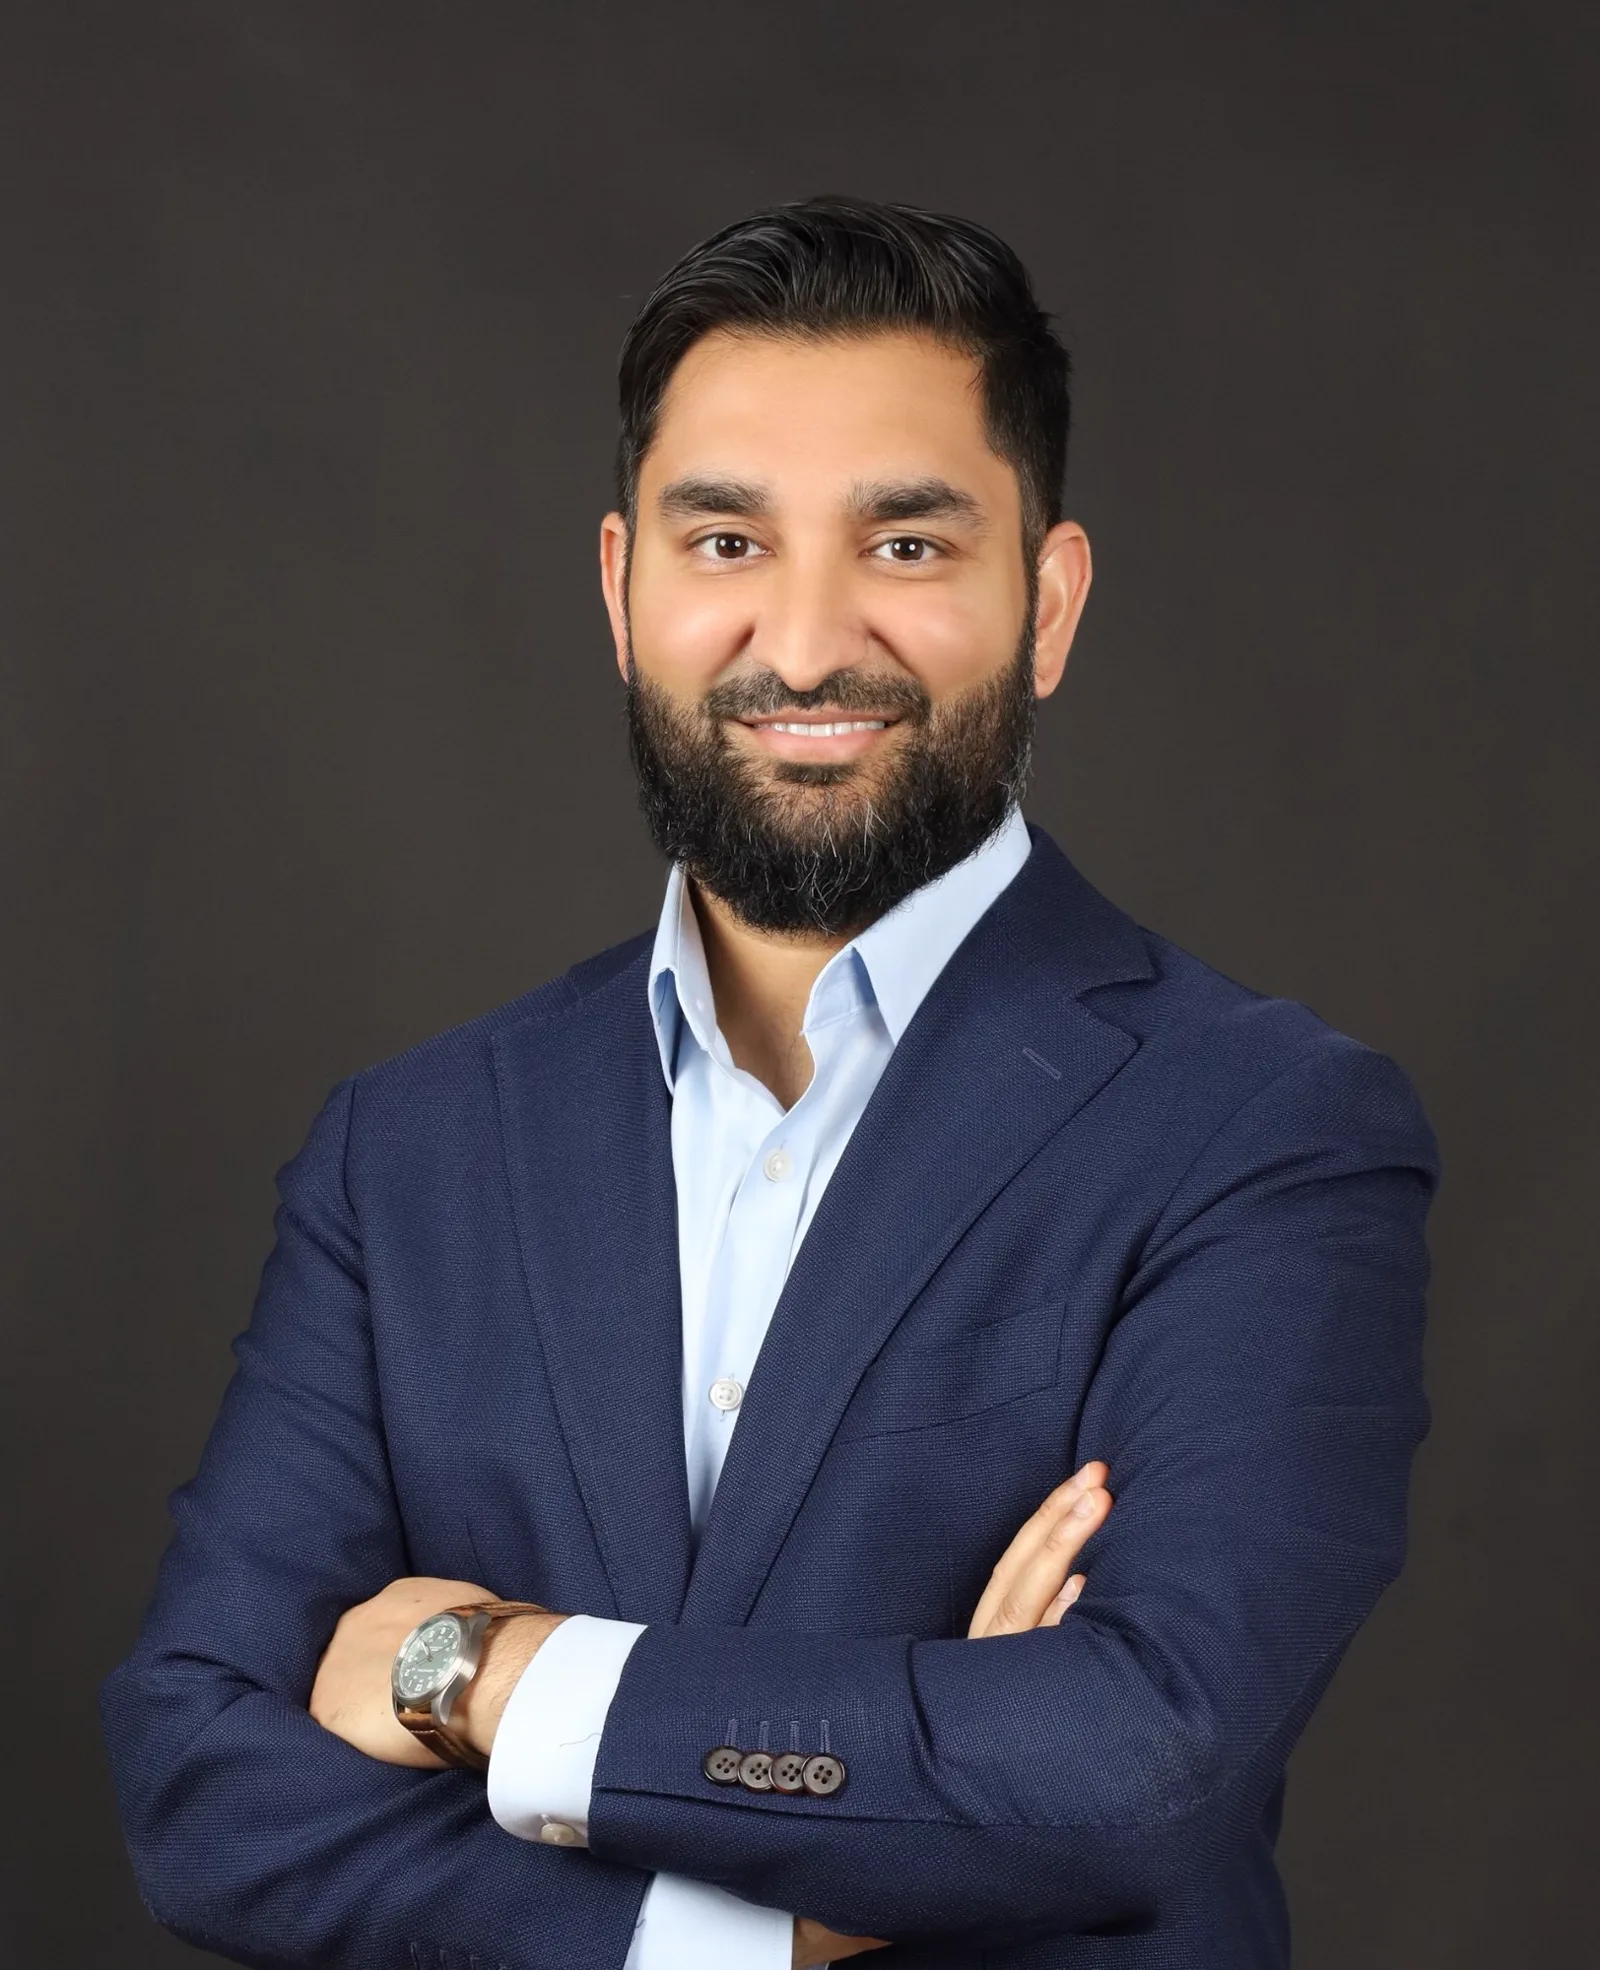
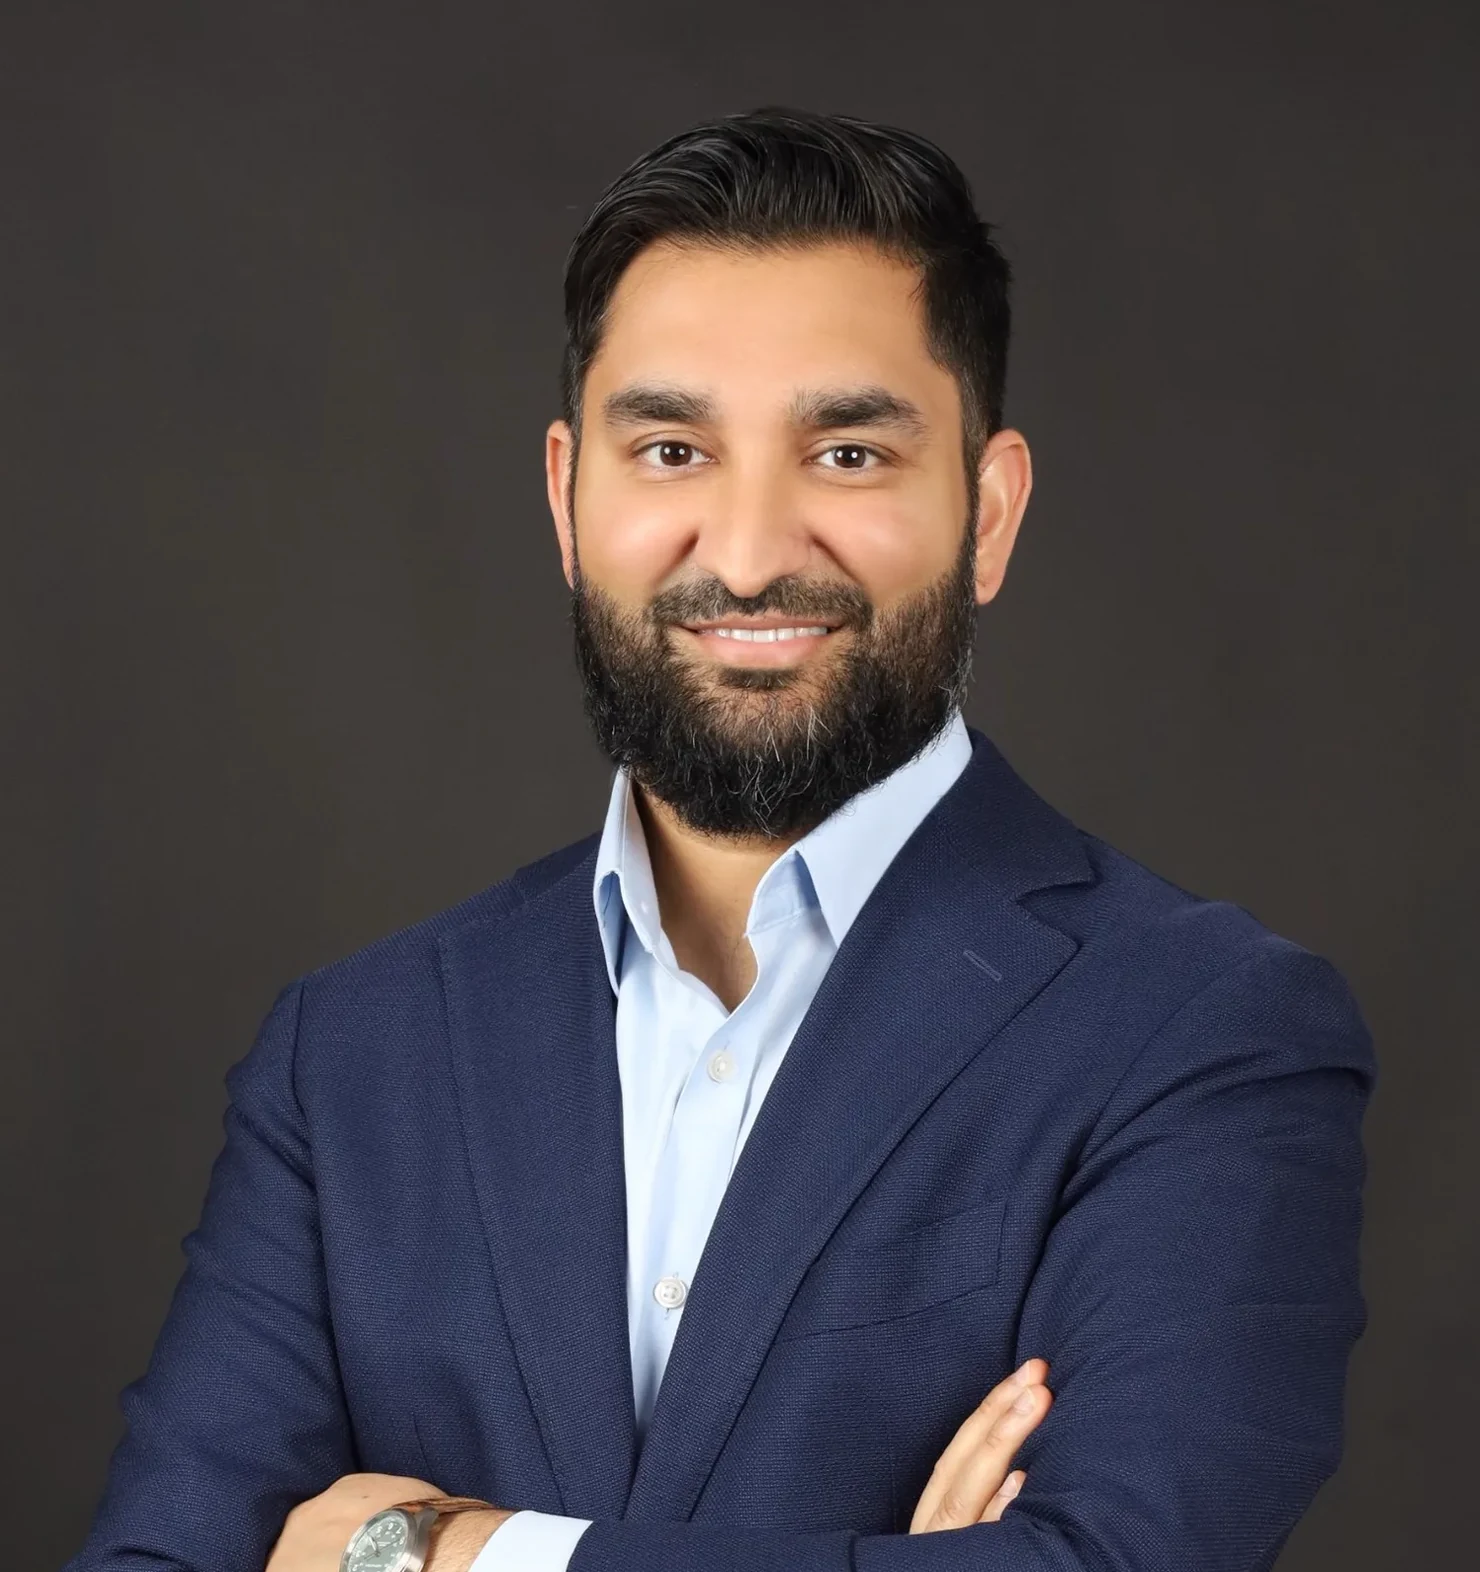
Replace marquee with a static credentials strip; fix hero opacity and framing
The scrolling ticker becomes a static list. Because it no longer moves it is
real content rather than decoration, so aria-hidden comes off and the
credentials reach screen readers and search engines for the first time. This
closes the "facts only live in the marquee" gap without restoring the stats
block. MIT now carries its date (2019) and "35+ Countries Explored" is added.
Dot separators were dropped: on a wrapping list they stranded themselves at
the start of each new line. Alternating colour and a wide column gap do that
work instead. .ticker-* CSS and @keyframes marquee are deleted.

Hero opacity was inconsistent. The fadeIn animation used `forwards` and ended
at a hard opacity: 1, permanently overriding both the 0.75 base and the
dark-mode 0.85 -- so those values only ever applied to prefers-reduced-motion
users, who saw a visibly different hero from everyone else. Opacity is now a
--hero-opacity token and the animation resolves to it. Verified across all
four theme x reduced-motion combinations, including that it re-resolves when
the theme is toggled at runtime.

The two hero photos were 1600x1700 and 1600x1970 with different subject
scales, so the crop jumped whenever the theme was switched. Both are now
1480x1572 with the subject at matching scale and position, found by
background-differencing each image and cropping to align. Neither was
upscaled; the originals stay in git history.

On phones the photo now leads, is taller, clears the fixed nav instead of
[…]

Changed region(s): [[0.0311, 0.0623, 0.9014, 1.0], [0.8703, 0.6546, 0.9324, 0.7169], [0.8081, 0.7169, 0.8392, 0.7481]]

diff --git a/index.html b/index.html
@@ -49,7 +49,7 @@
   html { visibility: visible !important; }
   .reveal { opacity: 1 !important; transform: none !important; }
   .eyebrow, .hero-name, .hero-positioning, .hero-bio { opacity: 1 !important; animation: none !important; }
-  .hero-photo { opacity: 0.75 !important; animation: none !important; }
+  .hero-photo { opacity: var(--hero-opacity) !important; animation: none !important; }
 </style></noscript>
 <style>
   *, *::before, *::after { margin: 0; padding: 0; box-sizing: border-box; }
@@ -66,6 +66,7 @@
     --line-teal: rgba(23,119,93,0.2);
     --nav-bg: rgba(255,255,255,0.97);
     --white-rgb: 255,255,255;
+    --hero-opacity: 0.75;
   }
   [data-theme="dark"] {
     --bg: #0D1117;
@@ -80,6 +81,7 @@
     --line-teal: rgba(63,182,139,0.2);
     --nav-bg: rgba(13,17,23,0.97);
     --white-rgb: 13,17,23;
+    --hero-opacity: 0.85;
   }
   html { scroll-behavior: smooth; }
   body { background: var(--bg); color: var(--navy); font-family: 'Plus Jakarta Sans', sans-serif; overflow-x: hidden; transition: background 0.4s ease, color 0.4s ease; }
@@ -107,17 +109,15 @@
 
   /* HERO RIGHT */
   .hero-right { position: relative; overflow: hidden; background: var(--navy); }
-  .hero-photo { position: absolute; inset: 0; width: 100%; height: 100%; object-fit: cover; object-position: center 15%; opacity: 0.75; filter: contrast(1.05); animation: fadeIn 1.2s ease forwards 0.5s; }
+  .hero-photo { position: absolute; inset: 0; width: 100%; height: 100%; object-fit: cover; object-position: center 18%; opacity: var(--hero-opacity); filter: contrast(1.05); animation: fadeIn 1.2s ease forwards 0.5s; }
   .hero-right::after { content: ''; position: absolute; inset: 0; background: linear-gradient(135deg, rgba(11,29,58,0.4) 0%, transparent 60%, rgba(27,140,110,0.15) 100%); pointer-events: none; }
   .hero-right::before { content: ''; position: absolute; bottom: 0; left: 0; right: 0; height: 280px; background: linear-gradient(to top, var(--navy), transparent); z-index: 2; pointer-events: none; }
 
-  /* TICKER */
-  .ticker-wrap { border-top: 1px solid var(--line); border-bottom: 1px solid var(--line); background: var(--bg-alt); padding: 14px 0; overflow: hidden; white-space: nowrap; }
-  .ticker-track { display: inline-flex; animation: marquee 48s linear infinite; }
-  .ticker-wrap:hover .ticker-track { animation-play-state: paused; }
-  .ticker-item { display: inline-flex; align-items: center; gap: 20px; padding: 0 20px; font-size: 11px; letter-spacing: 0.22em; text-transform: uppercase; color: var(--ink-soft); font-weight: 500; }
-  .ticker-item .sep { width: 3px; height: 3px; border-radius: 50%; background: var(--teal); flex-shrink: 0; }
-  .ticker-item.hi { color: var(--teal); }
+  /* CREDENTIALS STRIP (static; replaced the scrolling marquee) */
+  .creds-wrap { border-top: 1px solid var(--line); border-bottom: 1px solid var(--line); background: var(--bg-alt); padding: 20px 24px; }
+  .creds { max-width: 1160px; margin: 0 auto; list-style: none; display: flex; flex-wrap: wrap; justify-content: center; align-items: center; gap: 12px 32px; }
+  .creds-item { font-size: 11px; letter-spacing: 0.22em; text-transform: uppercase; color: var(--ink-soft); font-weight: 500; line-height: 1.5; }
+  .creds-item.hi { color: var(--teal); }
 
   /* SECTION FRAMEWORK */
   .section-label-row { max-width: 1160px; margin: 0 auto; padding: 72px 64px 32px; }
@@ -195,8 +195,7 @@
   [data-theme="dark"] .hero-right { background: #161B22; }
   [data-theme="dark"] .hero-right::after { background: linear-gradient(135deg, rgba(13,17,23,0.5) 0%, transparent 60%, rgba(63,182,139,0.1) 100%); }
   [data-theme="dark"] .hero-right::before { background: linear-gradient(to top, #161B22, transparent); }
-  [data-theme="dark"] .hero-photo { opacity: 0.85; }
-  [data-theme="dark"] .ticker-wrap { background: var(--bg-alt); border-color: var(--line); }
+  [data-theme="dark"] .creds-wrap { background: var(--bg-alt); border-color: var(--line); }
   [data-theme="dark"] .pillar-card { background: var(--bg-alt); }
   [data-theme="dark"] .persp-inner { background: var(--bg-alt); }
   [data-theme="dark"] .contact-section { background: #161B22; border-top: 1px solid var(--line); }
@@ -210,27 +209,28 @@
   [data-theme="dark"] footer { background: #0D1117; border-top: 1px solid var(--line); color: var(--ink-soft); }
   [data-theme="dark"] .band-card { background: var(--bg-alt); }
 
-  .band-card, .pillar-card, .persp-inner, .ticker-wrap, .contact-section, footer, nav, .nav-icon, .hero-right { transition: background 0.4s ease, border-color 0.4s ease, box-shadow 0.3s ease; }
+  .band-card, .pillar-card, .persp-inner, .creds-wrap, .contact-section, footer, nav, .nav-icon, .hero-right { transition: background 0.4s ease, border-color 0.4s ease, box-shadow 0.3s ease; }
 
   @keyframes up { from { opacity: 0; transform: translateY(20px); } to { opacity: 1; transform: translateY(0); } }
-  @keyframes fadeIn { from { opacity: 0; } to { opacity: 1; } }
-  @keyframes marquee { from { transform: translateX(0); } to { transform: translateX(-50%); } }
+  @keyframes fadeIn { from { opacity: 0; } to { opacity: var(--hero-opacity); } }
   .reveal { opacity: 0; transform: translateY(24px); transition: opacity 0.7s ease, transform 0.7s ease; }
   .reveal.on { opacity: 1; transform: none; }
 
   @media (prefers-reduced-motion: reduce) {
     html { scroll-behavior: auto; }
     .eyebrow, .hero-name, .hero-positioning, .hero-bio { animation: none; opacity: 1; }
-    .hero-photo { animation: none; opacity: 0.75; }
-    .ticker-track { animation: none; }
+    .hero-photo { animation: none; opacity: var(--hero-opacity); }
     .reveal { transition: none; opacity: 1; transform: none; }
   }
 
   @media (max-width: 900px) {
     nav { padding: 14px 20px; }
     .hero { grid-template-columns: 1fr; }
-    .hero-right { height: 70vw; }
-    .hero-left { padding: 100px 24px 56px; }
+    /* Photo leads on phones. It clears the fixed nav rather than sitting under
+       it, and the bottom fade is shortened to suit a much shorter frame. */
+    .hero-right { order: -1; height: 78vw; margin-top: 58px; }
+    .hero-right::before { height: 110px; }
+    .hero-left { padding: 36px 24px 56px; }
     .section-label-row, .section-title, .section-lede, .pillar-grid, .lens-list, .roles-row, .persp-band { padding-left: 24px; padding-right: 24px; }
     .section-label-row { padding-top: 48px; padding-bottom: 24px; }
     .pillar-grid, .roles-row { grid-template-columns: 1fr; }
@@ -243,6 +243,9 @@
   /* Phones: the Perspective link stays in the nav (it is the only route to the
      second page above the fold), so the bar is compacted to make room. */
   @media (max-width: 600px) {
+    .creds-wrap { padding: 16px 20px; }
+    .creds { gap: 7px 18px; }
+    .creds-item { font-size: 10px; letter-spacing: 0.14em; }
     nav { padding: 12px 16px; }
     .nav-logo { font-size: 16px; }
     .nav-link { font-size: 10px; letter-spacing: 0.04em; margin-right: 8px; }
@@ -295,29 +298,20 @@
   </div>
 </section>
 
-<div class="ticker-wrap" aria-hidden="true">
-  <div class="ticker-track">
-    <span class="ticker-item hi">$150M+ Transactions Led<span class="sep"></span></span>
-    <span class="ticker-item">20+ Years Across Science &amp; Investing<span class="sep"></span></span>
-    <span class="ticker-item hi">Sovereign Capital<span class="sep"></span></span>
-    <span class="ticker-item">Frontier AI<span class="sep"></span></span>
-    <span class="ticker-item hi">4 Board Roles<span class="sep"></span></span>
-    <span class="ticker-item">Multiple US Patents<span class="sep"></span></span>
-    <span class="ticker-item hi">MIT Innovators Under 35<span class="sep"></span></span>
-    <span class="ticker-item">US + KSA + UAE Access<span class="sep"></span></span>
-    <span class="ticker-item hi">Trilingual<span class="sep"></span></span>
-    <span class="ticker-item">Riyadh · New York<span class="sep"></span></span>
-    <span class="ticker-item hi">$150M+ Transactions Led<span class="sep"></span></span>
-    <span class="ticker-item">20+ Years Across Science &amp; Investing<span class="sep"></span></span>
-    <span class="ticker-item hi">Sovereign Capital<span class="sep"></span></span>
-    <span class="ticker-item">Frontier AI<span class="sep"></span></span>
-    <span class="ticker-item hi">4 Board Roles<span class="sep"></span></span>
-    <span class="ticker-item">Multiple US Patents<span class="sep"></span></span>
-    <span class="ticker-item hi">MIT Innovators Under 35<span class="sep"></span></span>
-    <span class="ticker-item">US + KSA + UAE Access<span class="sep"></span></span>
-    <span class="ticker-item hi">Trilingual<span class="sep"></span></span>
-    <span class="ticker-item">Riyadh · New York<span class="sep"></span></span>
-  </div>
+<div class="creds-wrap">
+  <ul class="creds">
+    <li class="creds-item hi">$150M+ Transactions Led</li>
+    <li class="creds-item">20+ Years Across Science &amp; Investing</li>
+    <li class="creds-item hi">MIT Innovators Under 35 (2019)</li>
+    <li class="creds-item">4 Board Roles</li>
+    <li class="creds-item hi">Multiple US Patents</li>
+    <li class="creds-item">35+ Countries Explored</li>
+    <li class="creds-item hi">Trilingual</li>
+    <li class="creds-item">US + KSA + UAE Access</li>
+    <li class="creds-item hi">Sovereign Capital</li>
+    <li class="creds-item">Frontier AI</li>
+    <li class="creds-item hi">Riyadh &middot; New York</li>
+  </ul>
 </div>
 
 <!-- CURRENT ROLES -->

diff --git a/NOTES.md b/NOTES.md
@@ -51,26 +51,48 @@ WCAG contrast on every colour pair, asset and heading-outline checks.
 - **Recognition strip stays removed** (WEF/Milken, degree line). Confirmed
   intentional, not an oversight.
 
+## Done 3 Sep 2026 (static credentials, hero opacity, hero framing)
+
+- **The scrolling marquee is gone.** Replaced by a static `<ul class="creds">`
+  strip. Because it no longer moves it is real content, so `aria-hidden` was
+  dropped and the credentials finally reach screen readers and search
+  engines. `.ticker-*` CSS and `@keyframes marquee` are deleted. MIT now
+  carries its date, "MIT Innovators Under 35 (2019)", and "35+ Countries
+  Explored" was added. Eleven items: three lines on desktop, seven on
+  phones (tighter type below 600px). No separators, since dots stranded
+  themselves at the start of wrapped lines; alternating teal/grey and a
+  32px column gap do the separating.
+- **Hero opacity is consistent again.** `--hero-opacity` (0.75 light /
+  0.85 dark) is now a token, and `@keyframes fadeIn` animates *to* that
+  token instead of to a hard `1`. Verified all four combinations of theme x
+  `prefers-reduced-motion` land on the same value, and that the value
+  re-resolves correctly when the theme is toggled at runtime.
+- **Hero photos re-cropped to a common frame.** They were 1600x1700 (light)
+  and 1600x1970 (dark) with different subject scales, so the crop jumped on
+  every theme toggle. Both are now 1480x1572 with the subject at the same
+  scale and position (detected by background-differencing, then cropped to
+  match: subject centre 45.4%, head top 8.3%). Neither was upscaled.
+  Originals remain in git history.
+- **Mobile hero reworked.** The photo now leads on phones (`order: -1`), is
+  taller (78vw), clears the fixed nav rather than being clipped by it, and
+  its bottom fade drops from 280px to 110px so it does not swamp a short
+  frame. Face and name are above the fold; previously the photo sat below a
+  nine-line bio, cropped to the forehead. DOM order is unchanged, so
+  reading and tab order are unaffected.
+
 ### Known, not yet fixed
 
-- `.hero-photo` animates `fadeIn ... forwards`, which ends at `opacity: 1`
-  and permanently overrides both the base `0.75` and the dark-mode `0.85`.
-  Those values now only apply to `prefers-reduced-motion` users, who see a
-  visibly different hero. Decide the intended final opacity, then reconcile.
-- **Credentials live only in the ticker**, which is `aria-hidden="true"`
-  (correct for a marquee). $150M+, MIT Innovators Under 35, multiple US
-  patents and 4 board roles therefore reach no screen reader and no search
-  engine, and a sighted visitor only catches them mid-scroll. Removing the
-  stats block was right; these facts still need a non-decorative home.
-  Recommendation pending Babar's call.
-- **Mobile hero.** Stacked, the photo sits below name + positioning + a
-  nine-line bio, renders at `70vw` with `object-position: center 15%`, and
-  is cropped to the top of the head below the fold. The two hero images are
-  also different aspect ratios (1600x1700 light, 1600x1970 dark), so the
-  crop shifts when the theme is toggled.
-- Two stale remote branches (`claude/pricing-sensitivity-calculator-Bkl6J`,
-  `claude/switch-opus-4.6-y35dr`) both predate the July overhaul and still
-  carry `thesis.html`. Delete them so they are not mistaken for newer work.
+- **Two stale remote branches** (`claude/pricing-sensitivity-calculator-Bkl6J`,
+  `claude/switch-opus-4.6-y35dr`) predate the July overhaul and still carry
+  `thesis.html`. Babar approved deleting them, but this session's git
+  credentials are scoped to its own branch and the delete returns HTTP 403.
+  Delete from the GitHub branches page, or locally:
+  `git push origin --delete claude/pricing-sensitivity-calculator-Bkl6J claude/switch-opus-4.6-y35dr`
+- **Credentials strip length.** Eleven items was fine as a marquee, where
+  length was hidden; static, it is a visible list. "Sovereign Capital" and
+  "Frontier AI" are positioning phrases rather than credentials, and
+  "Riyadh &middot; New York" also appears in the footer. Worth trimming.
+- **"35+ countries" appears twice** now: in the strip and in Lens 5.
 
 ---
 
